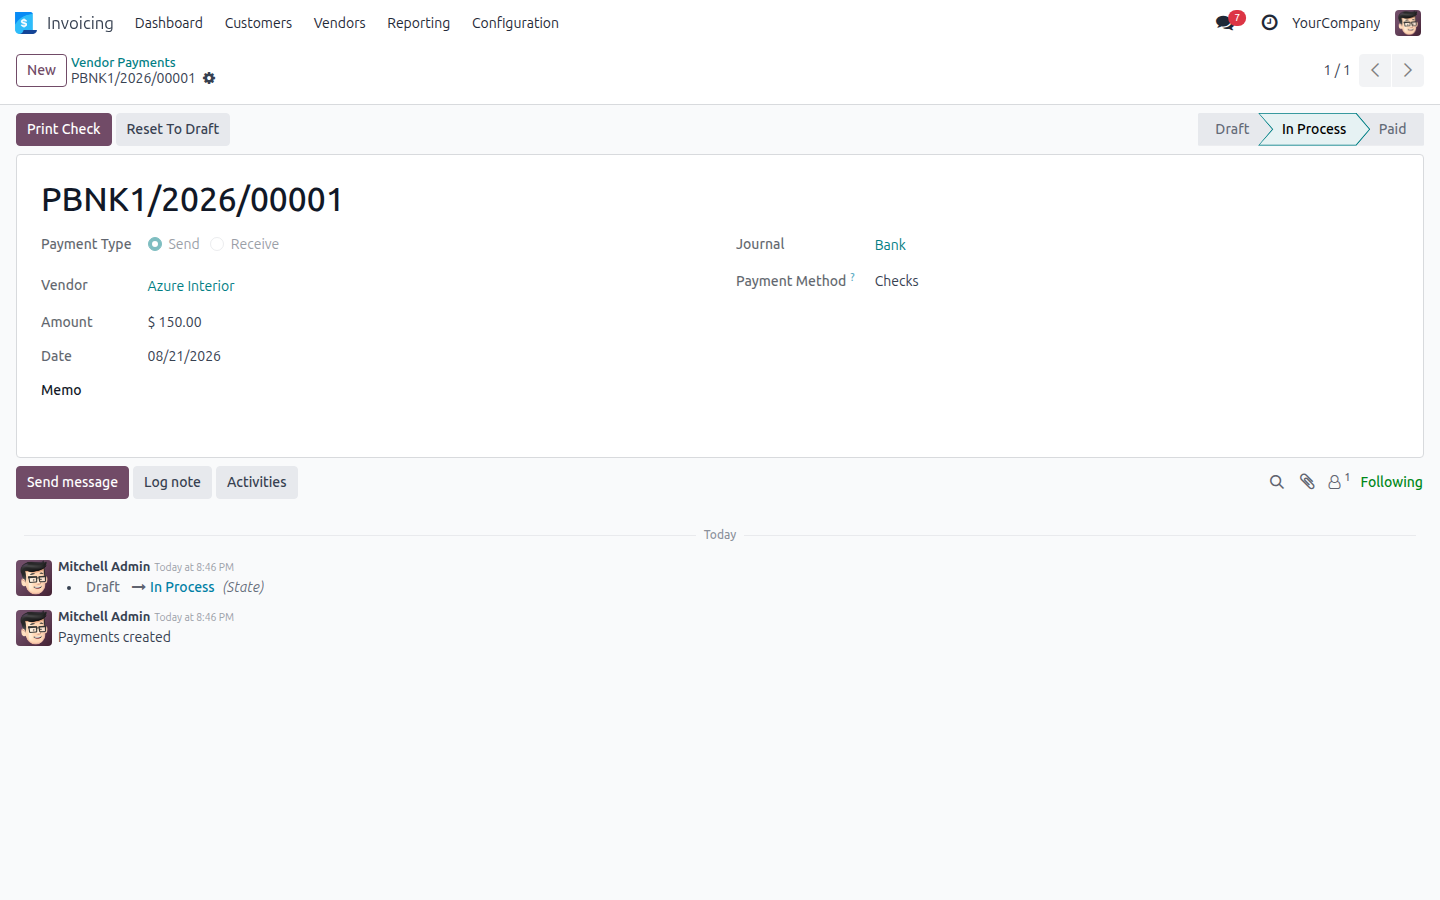
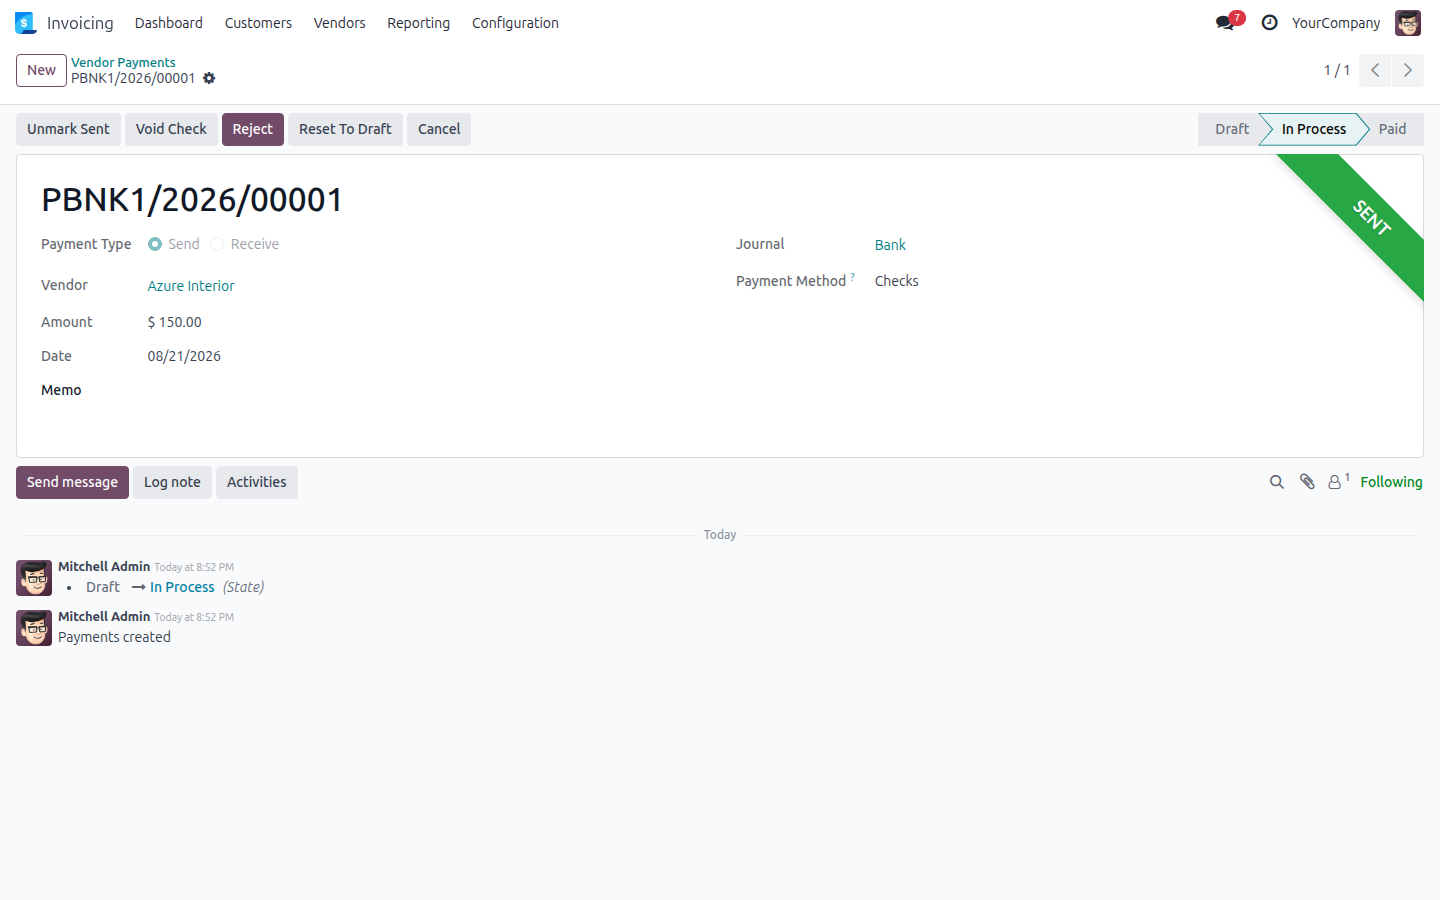
Fix check-sent tracking for 18.0's renamed payment state/field
account.payment.state's 'posted' value became 'in_process'/'paid' in
18.0, and is_move_sent was renamed to is_sent. The dynamically
generated check report and check_do() still referenced the old
16.0/17.0 names, so printing a check never marked the payment as
sent. Verified with a re-tested install: the SENT ribbon and
Unmark Sent/Void Check buttons now appear after printing.

Changed region(s): [[0.0, 0.1244, 0.3125, 0.1867], [0.875, 0.1556, 1.0, 0.3422]]

diff --git a/dynamic_check_print/models/format_checkprint.py b/dynamic_check_print/models/format_checkprint.py
@@ -159,7 +159,7 @@ class FormatCheckPrint(models.Model):
                 <t t-name="{xml_report_name}">
                     <t t-call="web.html_container">
                         <t t-foreach="docs" t-as="o">
-                            <t t-if="o.state == 'posted'" t-esc="o.check_do()"/>
+                            <t t-if="o.state in ('in_process', 'paid')" t-esc="o.check_do()"/>
                             <t t-esc="o.numbers_to_letters(o.amount)"/>
                             <div class="article">
                                 <div class="page" style="font-family:'cool_font'">

diff --git a/dynamic_check_print/models/account_payment.py b/dynamic_check_print/models/account_payment.py
@@ -21,7 +21,7 @@ class AccountPayment(models.Model):
 
     def check_do(self):
         for rec in self:
-            rec.write({'is_move_sent': True})
+            rec.write({'is_sent': True})
         return
 
     def action_post(self):
